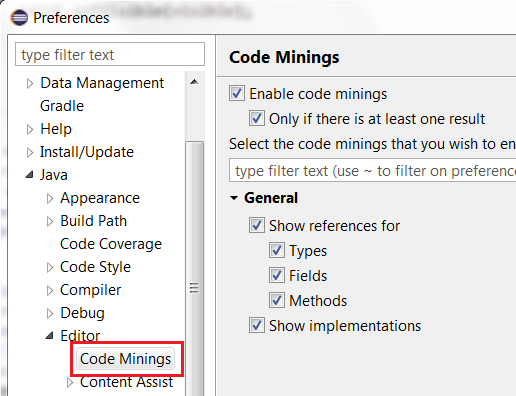
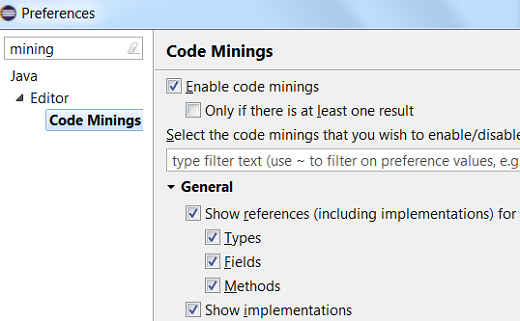
Bug 541832: [code mining] Update preferences text to indicate references include implementations

diff --git a/4.10/jdt.html b/4.10/jdt.html
@@ -127,7 +127,10 @@ ul {padding-left: 13px;}
           <img src="images/jdt-codemining-preferences.png" alt="" />
       </p>
       <p>
-      	Clicking on <b>references</b> launches the search for references:
+        The reference count includes the implementation count.
+      </p>
+      <p>
+        Clicking on <b>references</b> launches the search for references:
       </p>
       <p>
         <img src="images/jdt-codemining-references-search.png" alt="" />
